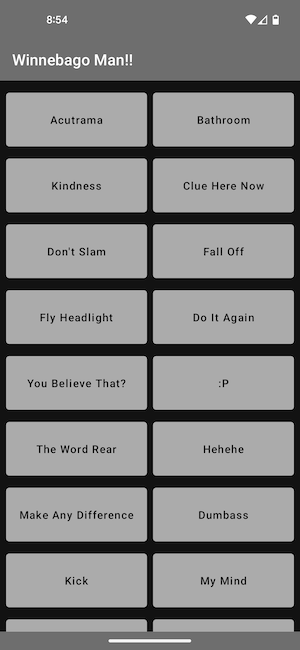
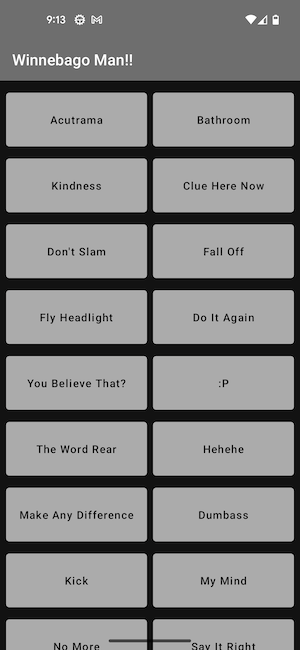
Make system bars transparent

Changed region(s): [[0.0, 0.9538, 1.0, 1.0], [0.24, 0.0, 0.33, 0.0615], [0.18, 0.0, 0.21, 0.0615]]

diff --git a/app/src/main/java/com/paulklauser/winnebagoman/MainActivity.kt b/app/src/main/java/com/paulklauser/winnebagoman/MainActivity.kt
@@ -7,10 +7,14 @@ import androidx.activity.compose.setContent
 import androidx.compose.foundation.layout.Column
 import androidx.compose.foundation.layout.Row
 import androidx.compose.foundation.layout.Spacer
+import androidx.compose.foundation.layout.WindowInsets
+import androidx.compose.foundation.layout.asPaddingValues
 import androidx.compose.foundation.layout.defaultMinSize
 import androidx.compose.foundation.layout.fillMaxWidth
 import androidx.compose.foundation.layout.height
+import androidx.compose.foundation.layout.navigationBars
 import androidx.compose.foundation.layout.padding
+import androidx.compose.foundation.layout.statusBars
 import androidx.compose.foundation.layout.width
 import androidx.compose.foundation.rememberScrollState
 import androidx.compose.foundation.verticalScroll
@@ -19,13 +23,14 @@ import androidx.compose.material.MaterialTheme
 import androidx.compose.material.Scaffold
 import androidx.compose.material.Surface
 import androidx.compose.material.Text
-import androidx.compose.material.TopAppBar
 import androidx.compose.runtime.Composable
 import androidx.compose.runtime.DisposableEffect
 import androidx.compose.ui.Modifier
 import androidx.compose.ui.graphics.Color
 import androidx.compose.ui.tooling.preview.Preview
 import androidx.compose.ui.unit.dp
+import androidx.core.view.WindowCompat
+import com.google.accompanist.insets.ui.TopAppBar
 import com.google.accompanist.systemuicontroller.rememberSystemUiController
 import com.paulklauser.winnebagoman.ui.theme.ToolbarGray
 import com.paulklauser.winnebagoman.ui.theme.WinnebagoManTheme
@@ -33,13 +38,14 @@ import com.paulklauser.winnebagoman.ui.theme.WinnebagoManTheme
 class MainActivity : ComponentActivity() {
     override fun onCreate(savedInstanceState: Bundle?) {
         super.onCreate(savedInstanceState)
+        WindowCompat.setDecorFitsSystemWindows(window, false)
         setContent {
             // Remember a SystemUiController
             val systemUiController = rememberSystemUiController()
 
             DisposableEffect(systemUiController) {
                 systemUiController.setSystemBarsColor(
-                    color = ToolbarGray,
+                    color = Color.Transparent,
                     darkIcons = false
                 )
 
@@ -62,6 +68,7 @@ fun MainScreen(playAsset: (Int) -> Unit) {
         Scaffold(topBar = {
             TopAppBar(
                 title = { Text(text = "Winnebago Man!!", color = Color.White) },
+                contentPadding = WindowInsets.statusBars.asPaddingValues(),
                 backgroundColor = ToolbarGray
             )
         }) {
@@ -295,6 +302,7 @@ fun MainScreen(playAsset: (Int) -> Unit) {
                         Spacer(modifier = Modifier.width(8.dp))
                     }
                     Spacer(modifier = Modifier.height(8.dp))
+                    Spacer(modifier = Modifier.padding(WindowInsets.navigationBars.asPaddingValues()))
                 }
             }
         }
